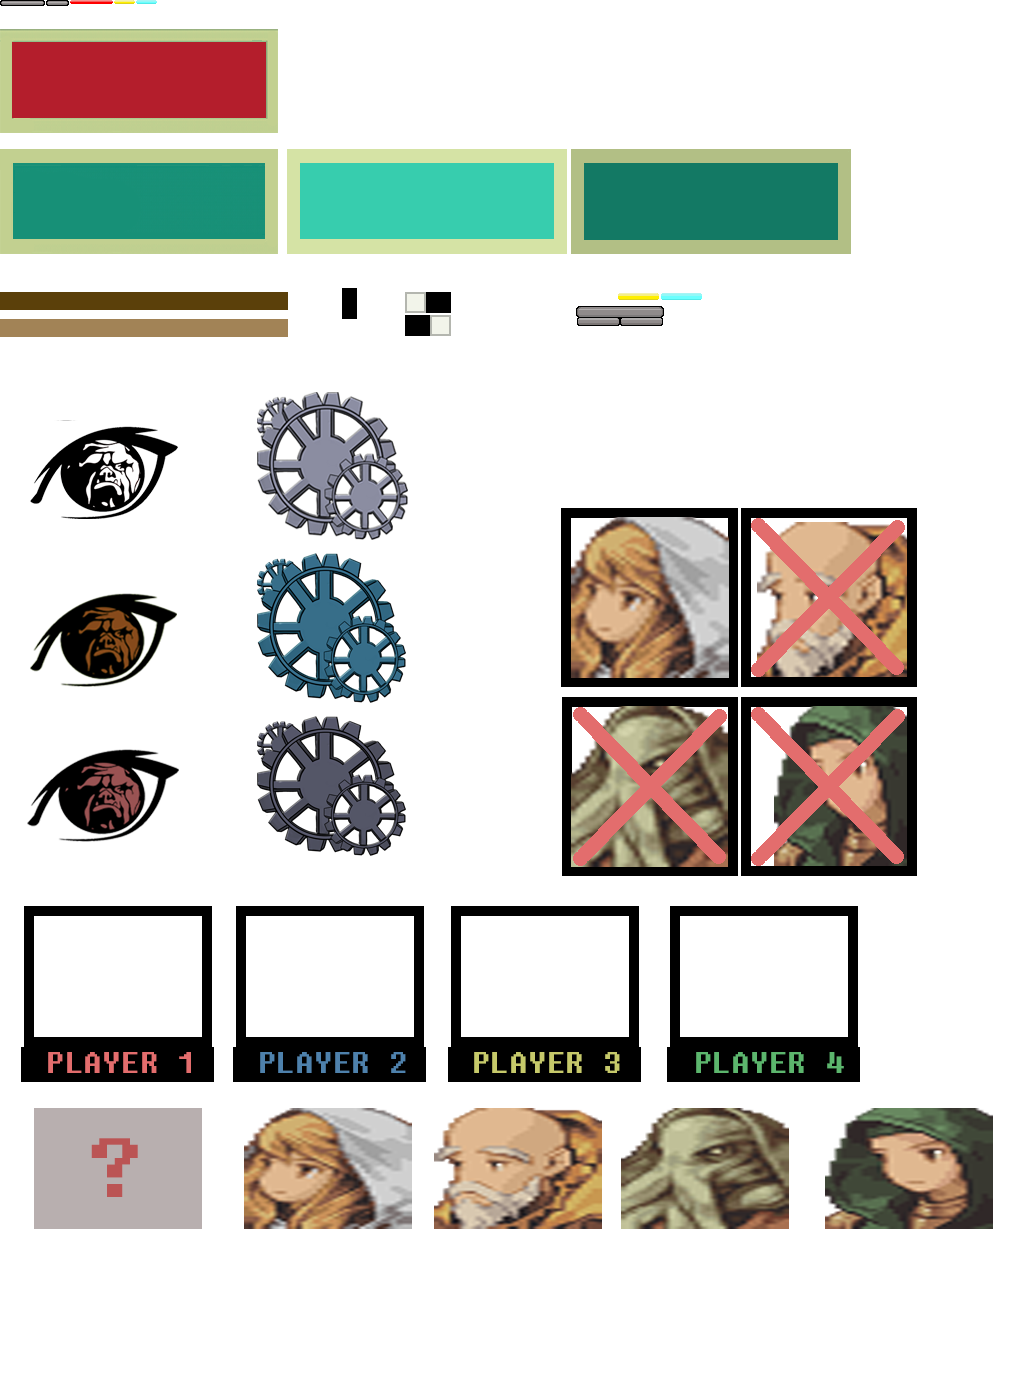
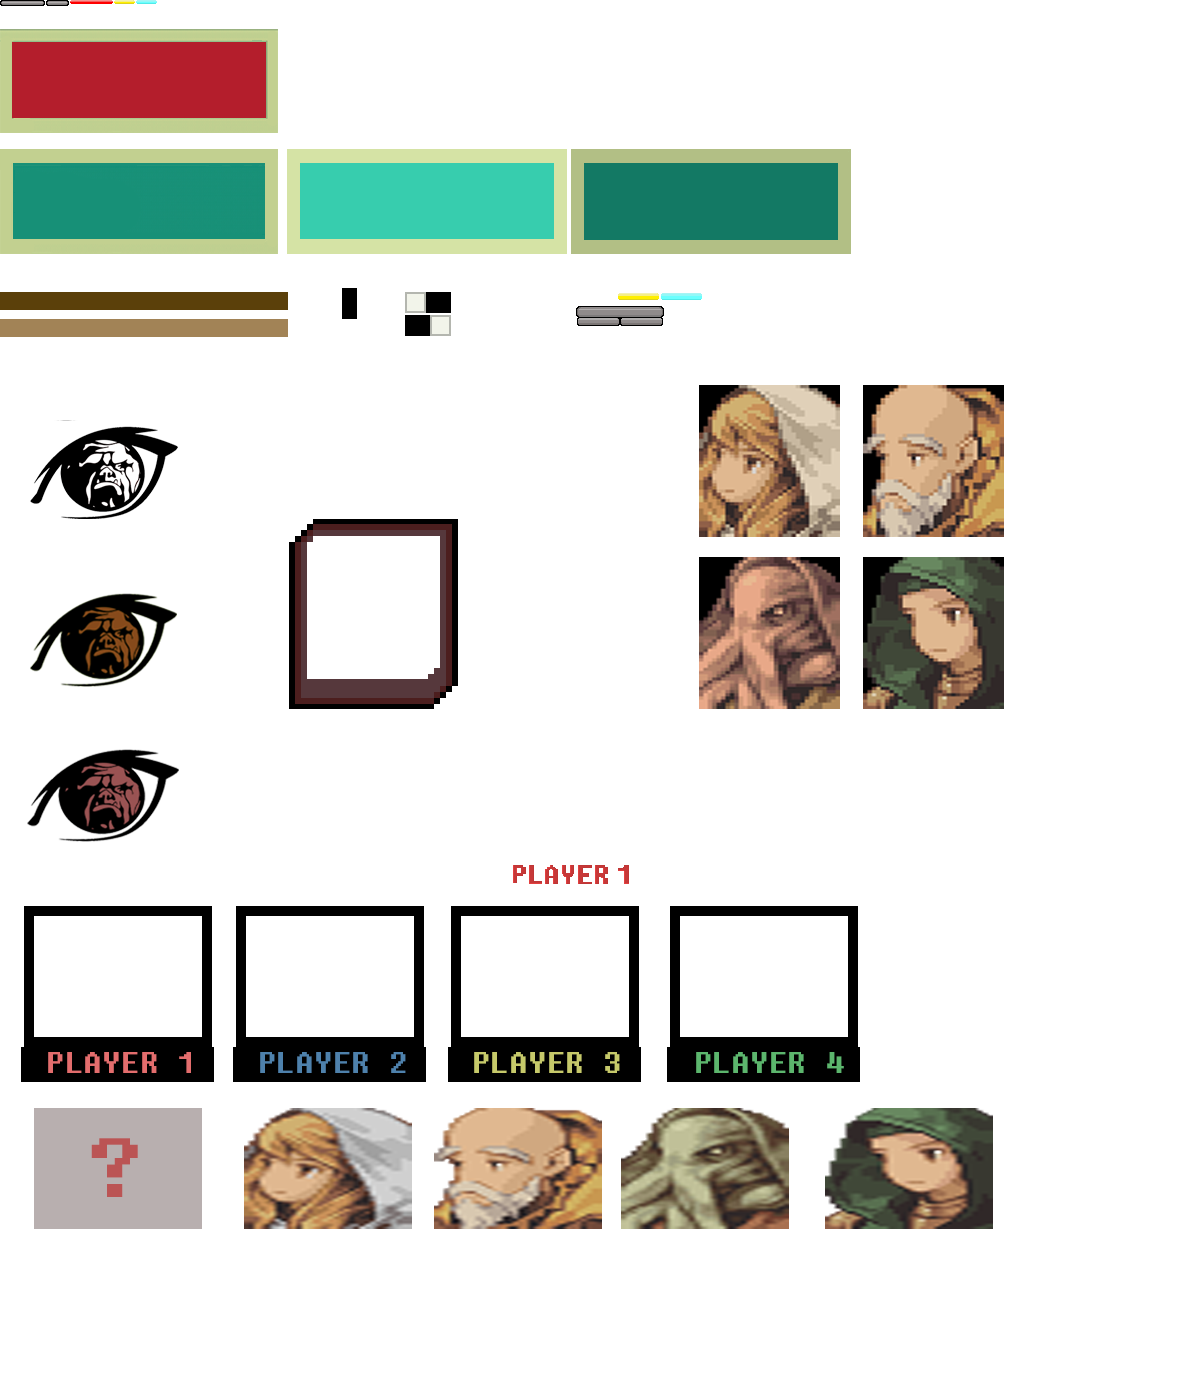
Adjusting images new atlas

diff --git a/FantasyBrawl_Project/Motor2D/j1UIScene.cpp b/FantasyBrawl_Project/Motor2D/j1UIScene.cpp
@@ -241,11 +241,12 @@ bool j1UIScene::Start()
 
 
 		//PLAYER QUADS
-		UI_element* player1_quad = App->gui->createImageFromAtlas(20, 20, { 18, 904,200,180 }, this);
-		UI_element* player2_quad = App->gui->createImageFromAtlas(20, 200, { 232, 904,200,180 }, this);
-		UI_element* player3_quad = App->gui->createImageFromAtlas(20, 380, { 447, 904,200,180 }, this);
-		UI_element* player4_quad = App->gui->createImageFromAtlas(20, 560, { 666, 904,200,180 }, this);
+		UI_element* player1_quad = App->gui->createImageFromAtlas(40, 3, { 288, 518, 170,191 }, this);
+		UI_element* player2_quad = App->gui->createImageFromAtlas(40, 194, { 288, 518, 170,191 }, this);
+		UI_element* player3_quad = App->gui->createImageFromAtlas(40, 385, { 288, 518, 170,191 }, this);
+		UI_element* player4_quad = App->gui->createImageFromAtlas(40, 576, { 288, 518, 170,191 }, this);
 
+		UI_element* player1_text = App->gui->createImageFromAtlas(60, 166, { 512, 864,117, 20 }, this);
 		//ARROWS
 		UI_element* arrow1 = App->gui->createButton(230 * App->gui->UI_scale, 100 * App->gui->UI_scale, NULL, { 341,287,16,32 }, { 341,287,16,32 }, { 341,287,16,32 }, this);
 		arrow1->function = SELECTING1;
@@ -272,16 +273,16 @@ bool j1UIScene::Start()
 		inv_arrow4->function = INV_SELECTING4;
 
 		//PLAYER IMAGE(?)
-		mark1 = App->gui->createImageFromAtlas(35, 31, { 243, 1107, 169,122 }, this);
+		mark1 = App->gui->createImageFromAtlas(58, 15, { 698, 384, 142, 153 }, this);
 		photos[0] = mark1;
 		
-		mark2 = App->gui->createImageFromAtlas(33, 211, { 243, 1107, 169,122 }, this);
+		mark2 = App->gui->createImageFromAtlas(58, 206, { 698, 384, 142, 153 }, this);
 		photos[1] = mark2;
 
-		mark3 = App->gui->createImageFromAtlas(33, 391, { 243, 1107, 169,122 }, this);
+		mark3 = App->gui->createImageFromAtlas(58, 397, { 698, 384, 142, 153 }, this);
 		photos[2] = mark3;
 
-		mark4 = App->gui->createImageFromAtlas(33, 571, { 243, 1107, 169,122 }, this);
+		mark4 = App->gui->createImageFromAtlas(58, 588, { 698, 384, 142, 153 }, this);
 		photos[3] = mark4;
 		
 
@@ -292,14 +293,14 @@ bool j1UIScene::Start()
 		
 
 		championSelection->elements.push_back(selection_text);
-		championSelection->elements.push_back(player1_quad);
-		championSelection->elements.push_back(player2_quad);
-		championSelection->elements.push_back(player3_quad);
-		championSelection->elements.push_back(player4_quad);
 		championSelection->elements.push_back(mark1);
 		championSelection->elements.push_back(mark2);
 		championSelection->elements.push_back(mark3);
 		championSelection->elements.push_back(mark4);
+		championSelection->elements.push_back(player1_quad);
+		championSelection->elements.push_back(player2_quad);
+		championSelection->elements.push_back(player3_quad);
+		championSelection->elements.push_back(player4_quad);
 		championSelection->elements.push_back(ready);
 		championSelection->elements.push_back(ready_text);
 		championSelection->elements.push_back(arrow1);
@@ -310,6 +311,7 @@ bool j1UIScene::Start()
 		championSelection->elements.push_back(inv_arrow2);
 		championSelection->elements.push_back(inv_arrow3);
 		championSelection->elements.push_back(inv_arrow4);
+		championSelection->elements.push_back(player1_text);
 		menus.push_back(championSelection);
 	}
 
@@ -557,7 +559,7 @@ bool j1UIScene::Update(float dt)
 		{
 			if (App->scene->player1->character != CHARACTER::WENDOLIN)
 			{
-				photos[0]->section = { 243, 1107, 169,122 };
+				photos[0]->section = { 698, 384, 142, 153 };
 				App->scene->player1->character = CHARACTER::WENDOLIN;
 				App->scene->player1->AssignCharacter();
 			}
